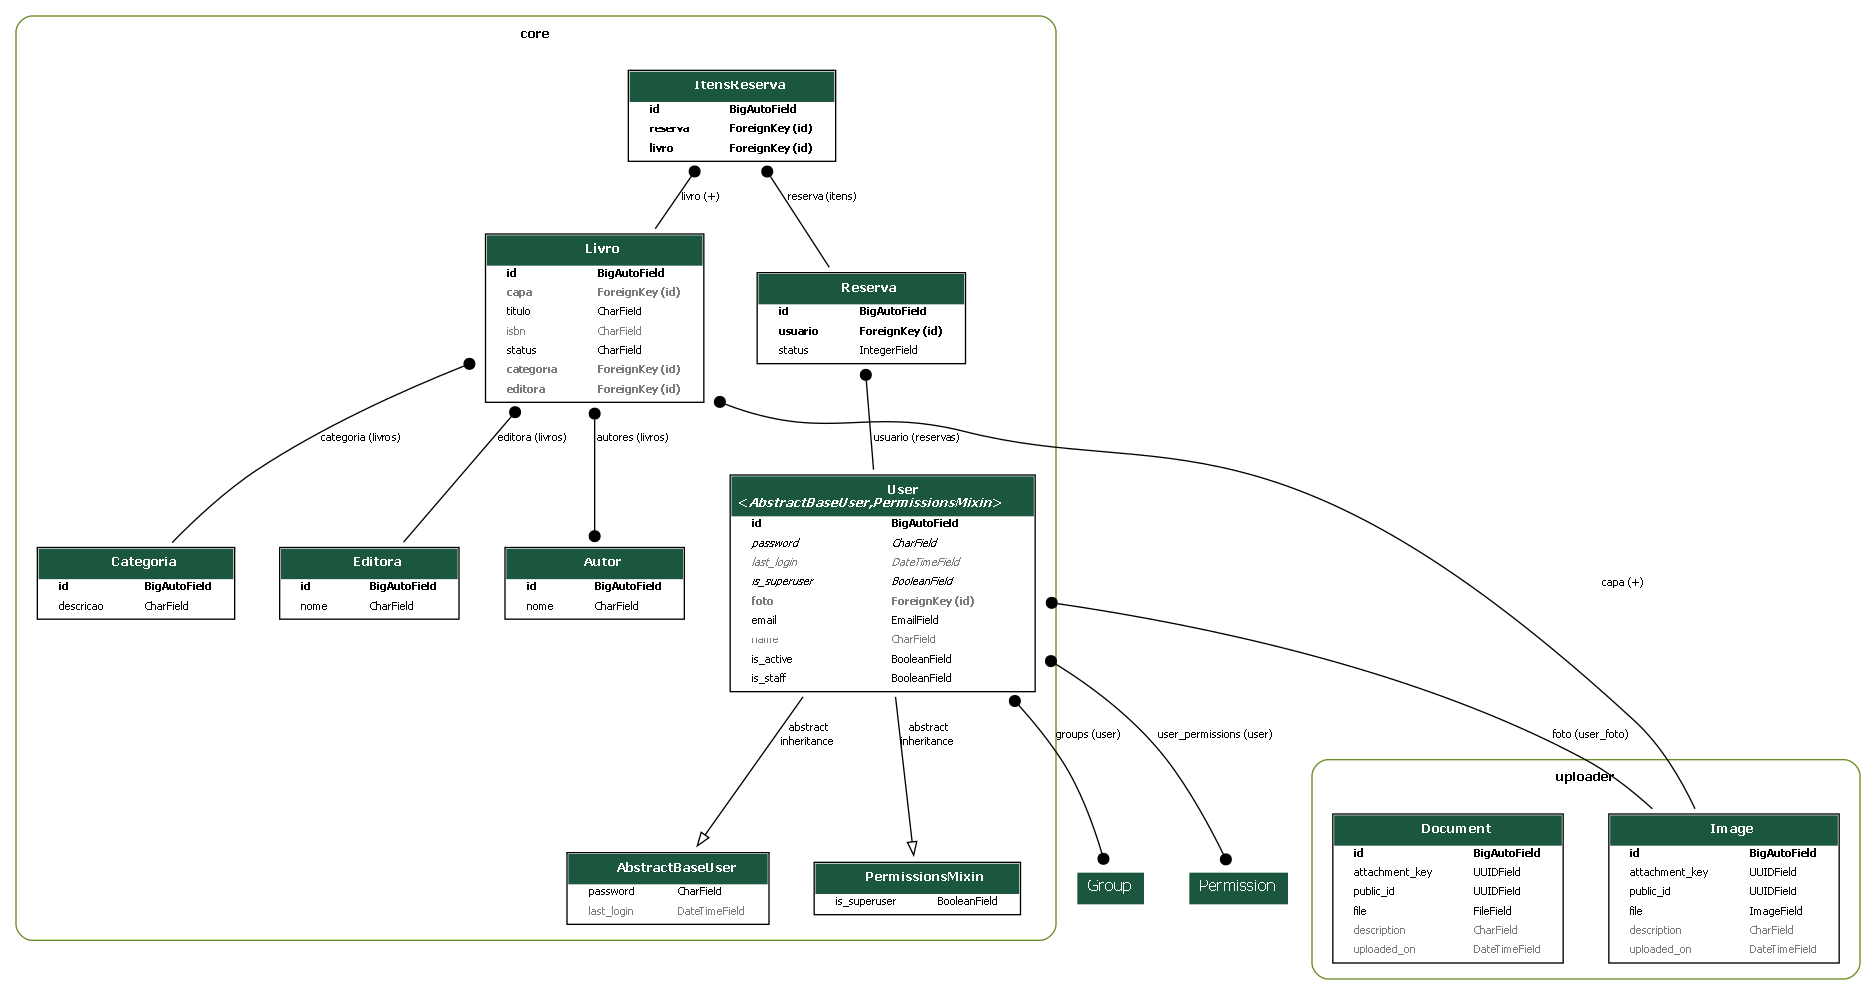
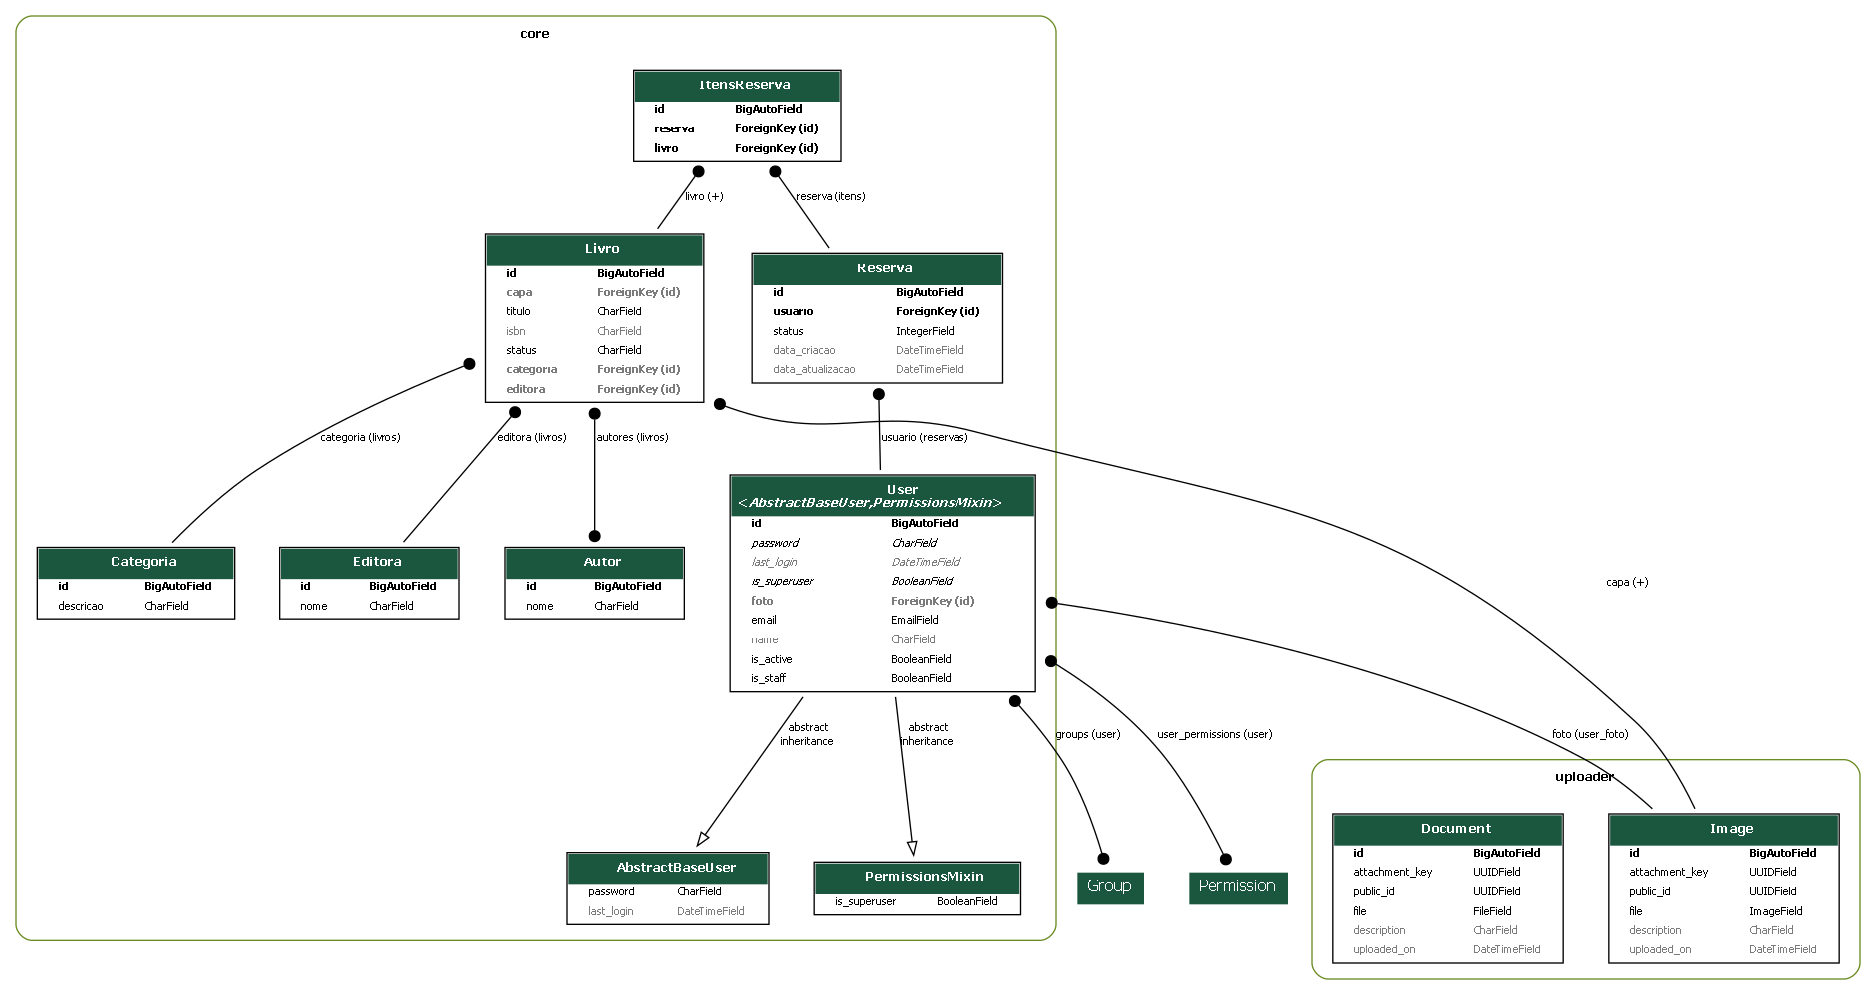
feat: registrando a data da reserva

diff --git a/core/serializers/reserva.py b/core/serializers/reserva.py
@@ -1,4 +1,4 @@
-from rest_framework.serializers import CharField, ModelSerializer, CurrentUserDefault, HiddenField, ValidationError
+from rest_framework.serializers import CharField, ModelSerializer, CurrentUserDefault, HiddenField, ValidationError, DateTimeField
 from core.models import Reserva, ItensReserva
 from django.db import transaction
 
@@ -10,10 +10,11 @@ class ItensReservaSerializer(ModelSerializer):
 class ReservaSerializer(ModelSerializer):
     usuario = CharField(source='usuario.email', read_only=True)
     status = CharField(source='get_status_display', read_only=True)
+    data = DateTimeField(read_only=True)
     itens = ItensReservaSerializer(many=True, read_only=True)
     class Meta:
         model = Reserva
-        fields = '__all__'
+        fields = ('id', 'usuario', 'status', 'data_criacao', 'data_atualizacao',)
 
 class ItensReservaCreateUpdateSerializer(ModelSerializer):
     class Meta:
@@ -57,8 +58,10 @@ class ReservaListSerializer(ModelSerializer):
     @transaction.atomic
     def update(self, reserva, validated_data):
         itens = validated_data.pop('itens', None)
+        reserva = Reserva.objects.create(**validated_data)
         if itens is not None:
             reserva.itens.all().delete()
             for item in itens:
                 ItensReserva.objects.create(reserva=reserva, **item)
+        reserva.save()
         return super().update(reserva, validated_data)

diff --git a/core/admin.py b/core/admin.py
@@ -91,9 +91,10 @@ class ItensReservaInline(admin.TabularInline):
     
 @register(Reserva)
 class ReservaAdmin(ModelAdmin):
-    list_display = ('usuario', 'status')
-    search_fields = ('usuario', 'status')
-    list_filter = ('usuario', 'status')
-    ordering = ('usuario', 'status')
+    list_display = ('usuario', 'status', 'data_criacao', 'data_atualizacao')
+    ordering = ('usuario', 'status', 'data_criacao')
+    search_fields = ('usuario__email', 'status')
+    list_filter = ('status', 'data_criacao', 'data_atualizacao')
     list_per_page = 10
     inlines = [ItensReservaInline]
+    readonly_fields = ('data_criacao', 'data_atualizacao')

diff --git a/core/migrations/0020_rename_data_reserva_data_criacao_and_more.py b/core/migrations/0020_rename_data_reserva_data_criacao_and_more.py
@@ -1,0 +1,23 @@
+# Generated by Django 5.2.17 on 2026-09-23 14:04
+
+from django.db import migrations, models
+
+
+class Migration(migrations.Migration):
+
+    dependencies = [
+        ('core', '0019_reserva_data'),
+    ]
+
+    operations = [
+        migrations.RenameField(
+            model_name='reserva',
+            old_name='data',
+            new_name='data_criacao',
+        ),
+        migrations.AddField(
+            model_name='reserva',
+            name='data_atualizacao',
+            field=models.DateTimeField(auto_now=True),
+        ),
+    ]

diff --git a/core/migrations/0019_reserva_data.py b/core/migrations/0019_reserva_data.py
@@ -1,0 +1,20 @@
+# Generated by Django 5.2.17 on 2026-09-23 13:55
+
+import django.utils.timezone
+from django.db import migrations, models
+
+
+class Migration(migrations.Migration):
+
+    dependencies = [
+        ('core', '0018_rename_compra_itensreserva_reserva'),
+    ]
+
+    operations = [
+        migrations.AddField(
+            model_name='reserva',
+            name='data',
+            field=models.DateTimeField(auto_now_add=True, default=django.utils.timezone.now),
+            preserve_default=False,
+        ),
+    ]

diff --git a/core/models/reserva.py b/core/models/reserva.py
@@ -13,10 +13,16 @@ class Reserva(models.Model):
         on_delete=models.PROTECT,
         related_name='reservas'
     )
-
     status = models.IntegerField(
         choices=StatusReserva.choices,
         default=StatusReserva.RESERVADO
+    )
+    data_criacao = models.DateTimeField(
+        auto_now_add=True
+    )
+    
+    data_atualizacao = models.DateTimeField(
+        auto_now=True
     )
 
     def save(self, *args, **kwargs):
